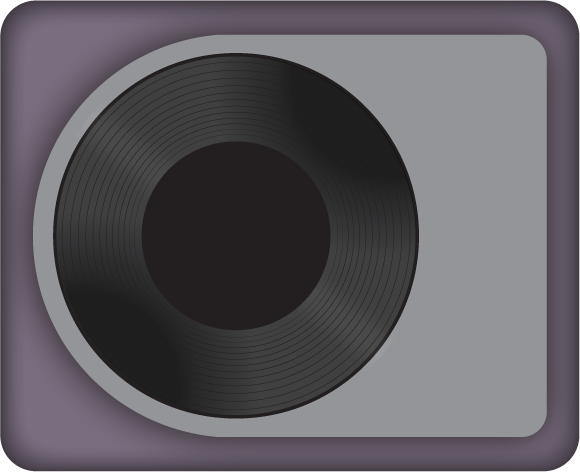
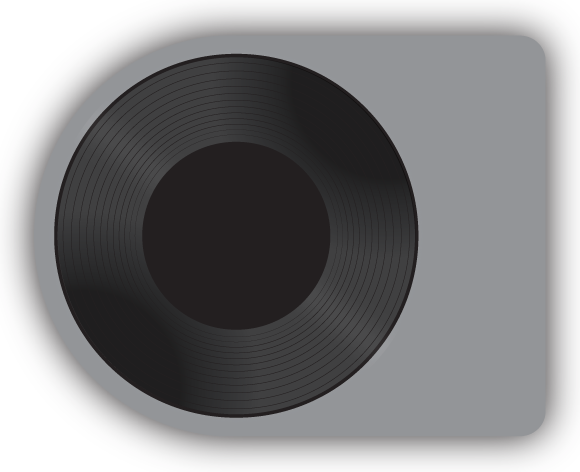
Removed base, trying to get textarea mobile

diff --git a/css/styles.css b/css/styles.css
@@ -154,9 +154,20 @@ section.listing {
       width: 280px;
       margin: 5px 10px 5px 0px; } }
 
+footer {
+  width: 300px;
+  margin: 0 auto; }
+  footer p {
+    width: 170px;
+    float: left; }
+  footer img {
+    float: left;
+    width: 100px;
+    margin-top: -52px;
+    padding: 20px 0; }
+
 iframe {
-  margin-left: -3px;
-  max-width: 400px; }
+  margin-left: -3px; }
 
 iframe.freenode {
   max-width: 100%; }
@@ -223,7 +234,7 @@ p.album_track {
   background-size: 290px 236px;
   background-image: url("base.png");
   overflow: hidden;
-  margin-left: 0px;
+  margin-left: -15px;
   width: 290px;
   height: 236px;
   position: relative;

diff --git a/_site/index.html b/_site/index.html
@@ -121,6 +121,10 @@ var scr = d.getElementsByTagName(t)[0], par = scr.parentNode; par.insertBefore(s
 		</div>
  	</section>
 
+	<footer>
+		<p>from the break room at </p><img src="/img/ktchlogo.png" alt="the Kitchen logo" border="0" />
+	</footer>
+
  <!-- scripts concatenated and minified via build script -->
  	<script src="/js/plugins.js"></script>
  	<script src="/js/script.js"></script>

diff --git a/_layouts/default.html b/_layouts/default.html
@@ -44,6 +44,10 @@
 		</div>
  	</section>
 
+	<footer>
+		<p>from the break room at </p><img src="/img/ktchlogo.png" alt="the Kitchen logo" border="0" />
+	</footer>
+
  <!-- scripts concatenated and minified via build script -->
  	<script src="/js/plugins.js"></script>
  	<script src="/js/script.js"></script>

diff --git a/css/_home.scss b/css/_home.scss
@@ -199,9 +199,23 @@ section.listing {
 	}
 }
 
+footer {
+	width:300px;
+	margin:0 auto;
+	p {
+		width:170px;
+		float:left;
+	}
+	img {
+		float:left;
+		width:100px;
+		margin-top:-52px;
+		padding:20px 0;
+	} 
+}
+
 iframe {
 	margin-left:-3px;
-	max-width:400px;
 }
 
 iframe.freenode {

diff --git a/css/_single.scss b/css/_single.scss
@@ -70,7 +70,7 @@ p.album_track {
 	background-size: 290px 236px;
 	background-image: url('base.png');
 	overflow: hidden;
-	margin-left:0px;
+	margin-left:-15px;
 	width: 290px;
 	height: 236px;
 	position: relative;

diff --git a/css/wufoo.css b/css/wufoo.css
@@ -6,3 +6,7 @@
 	padding-left:0;
 	padding-right:0;
 }
+
+textarea {
+	max-width:85%;
+}
